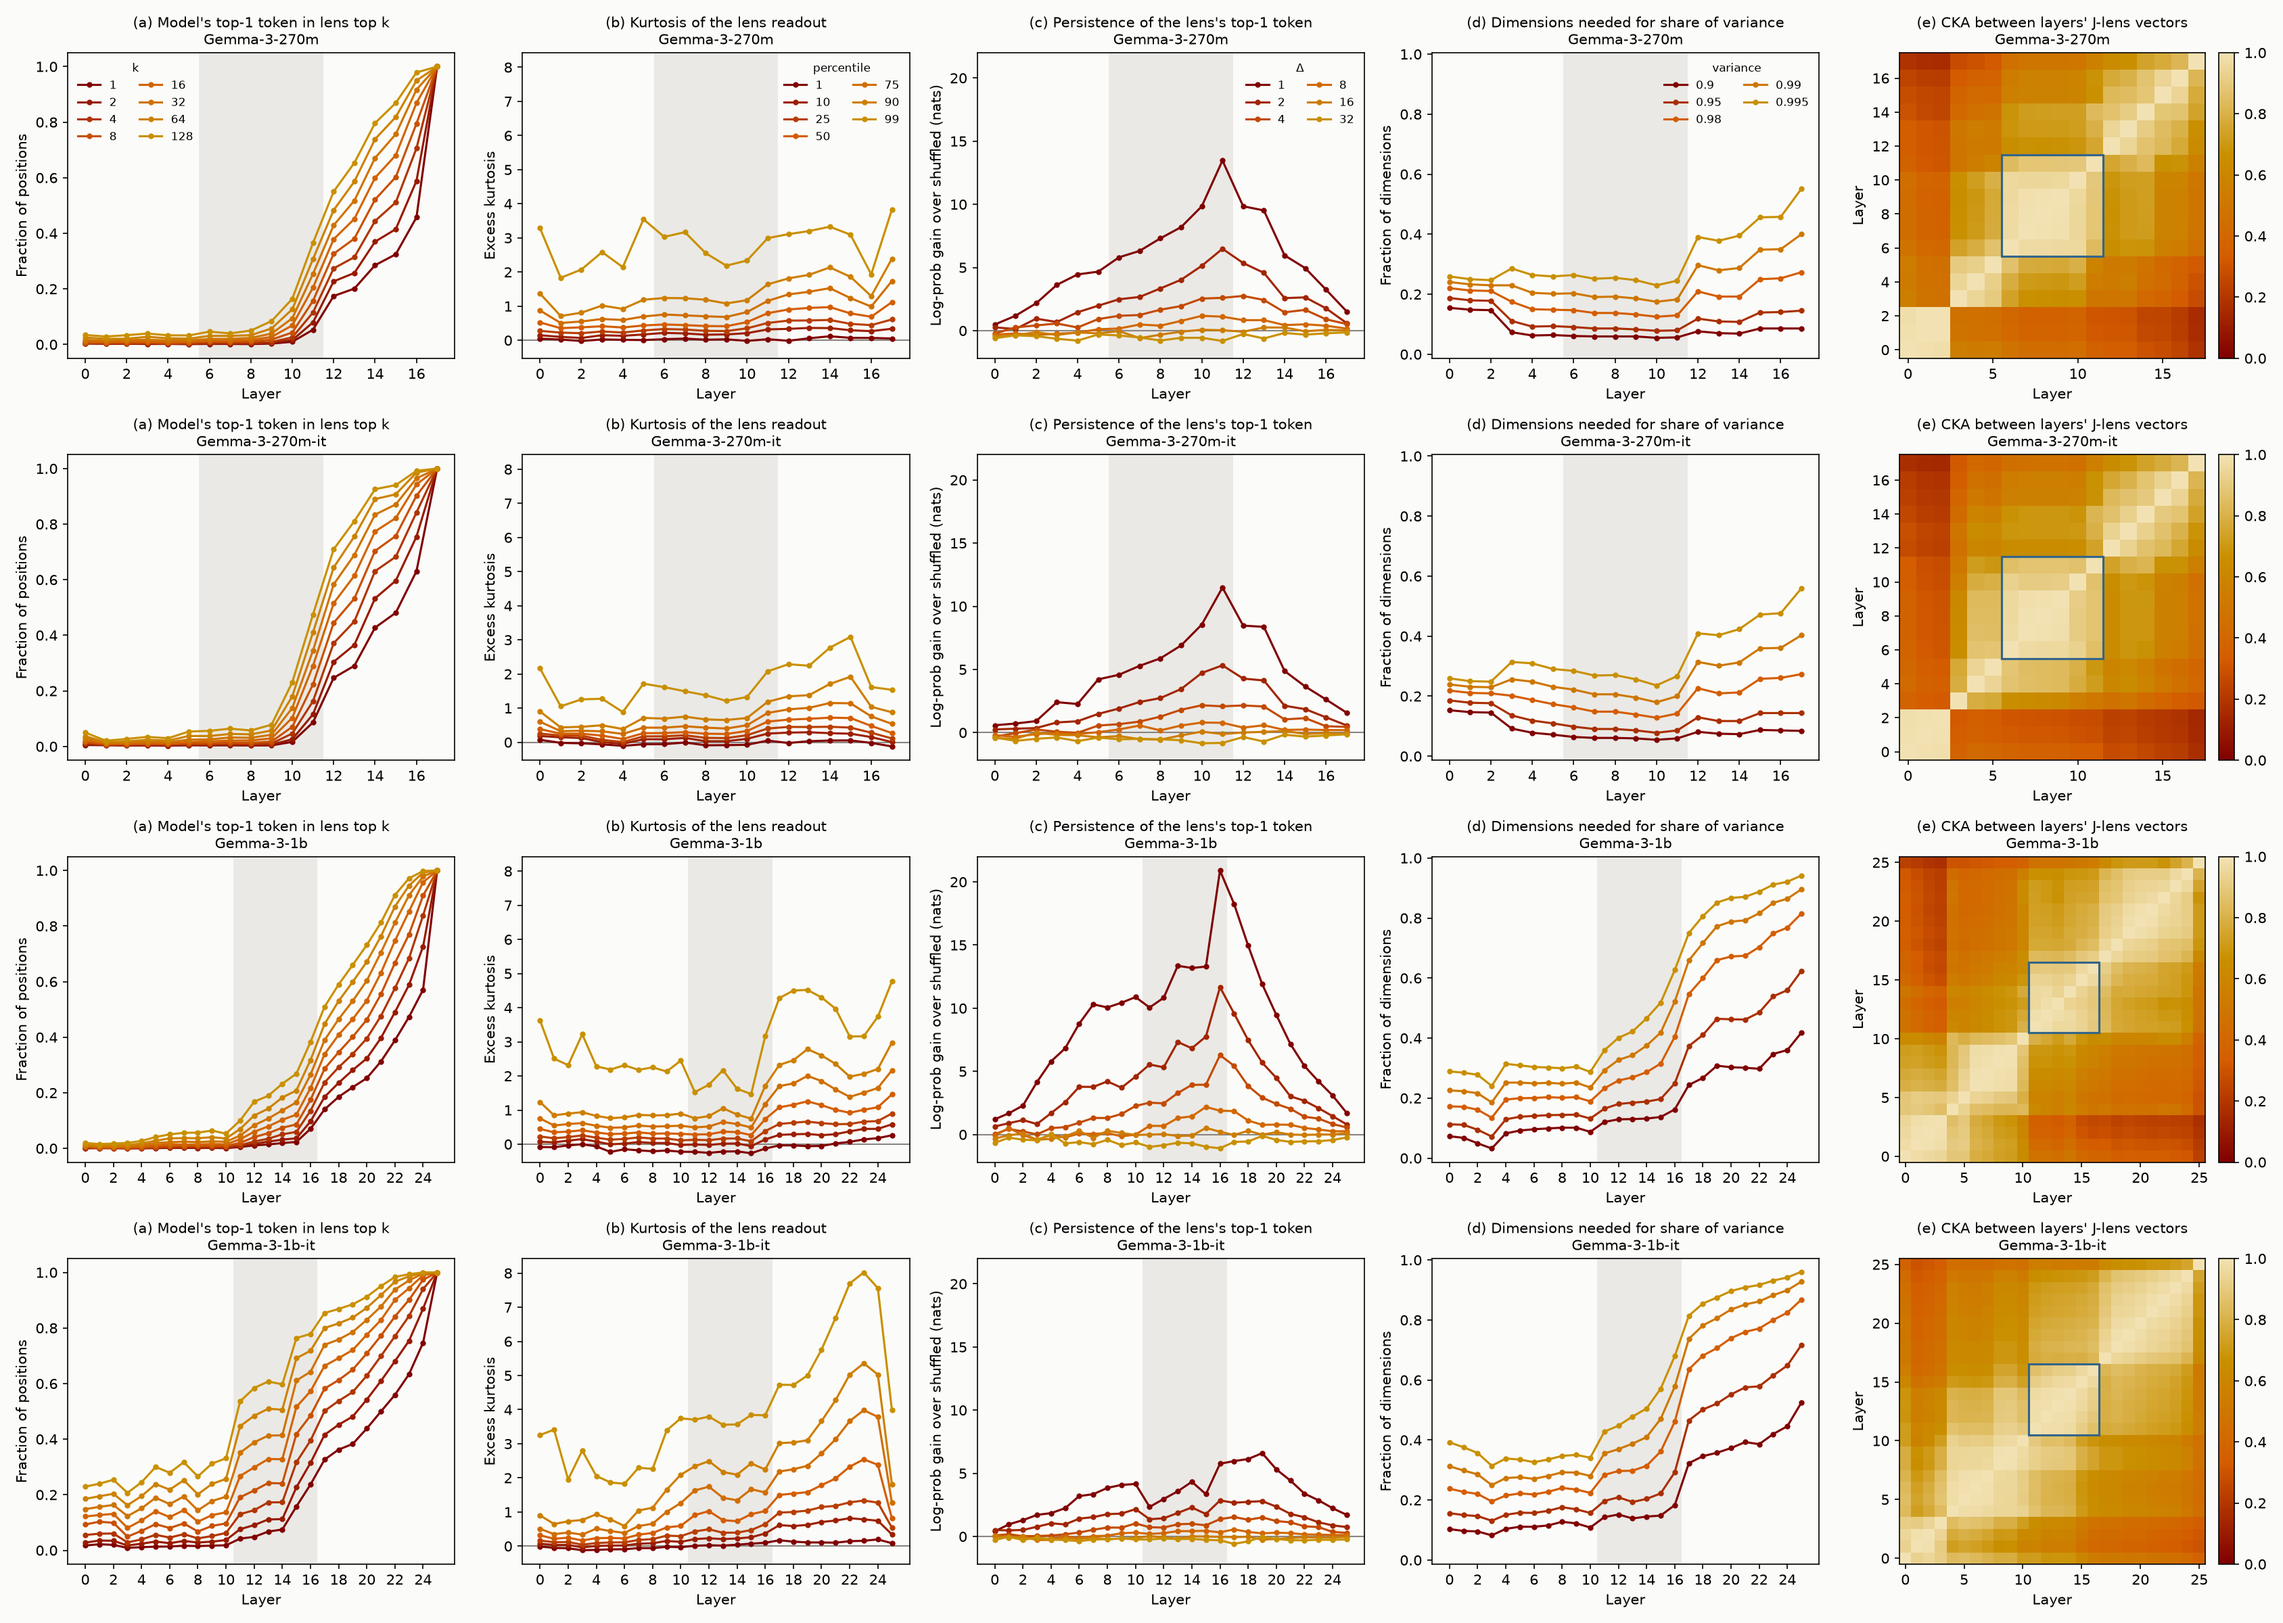
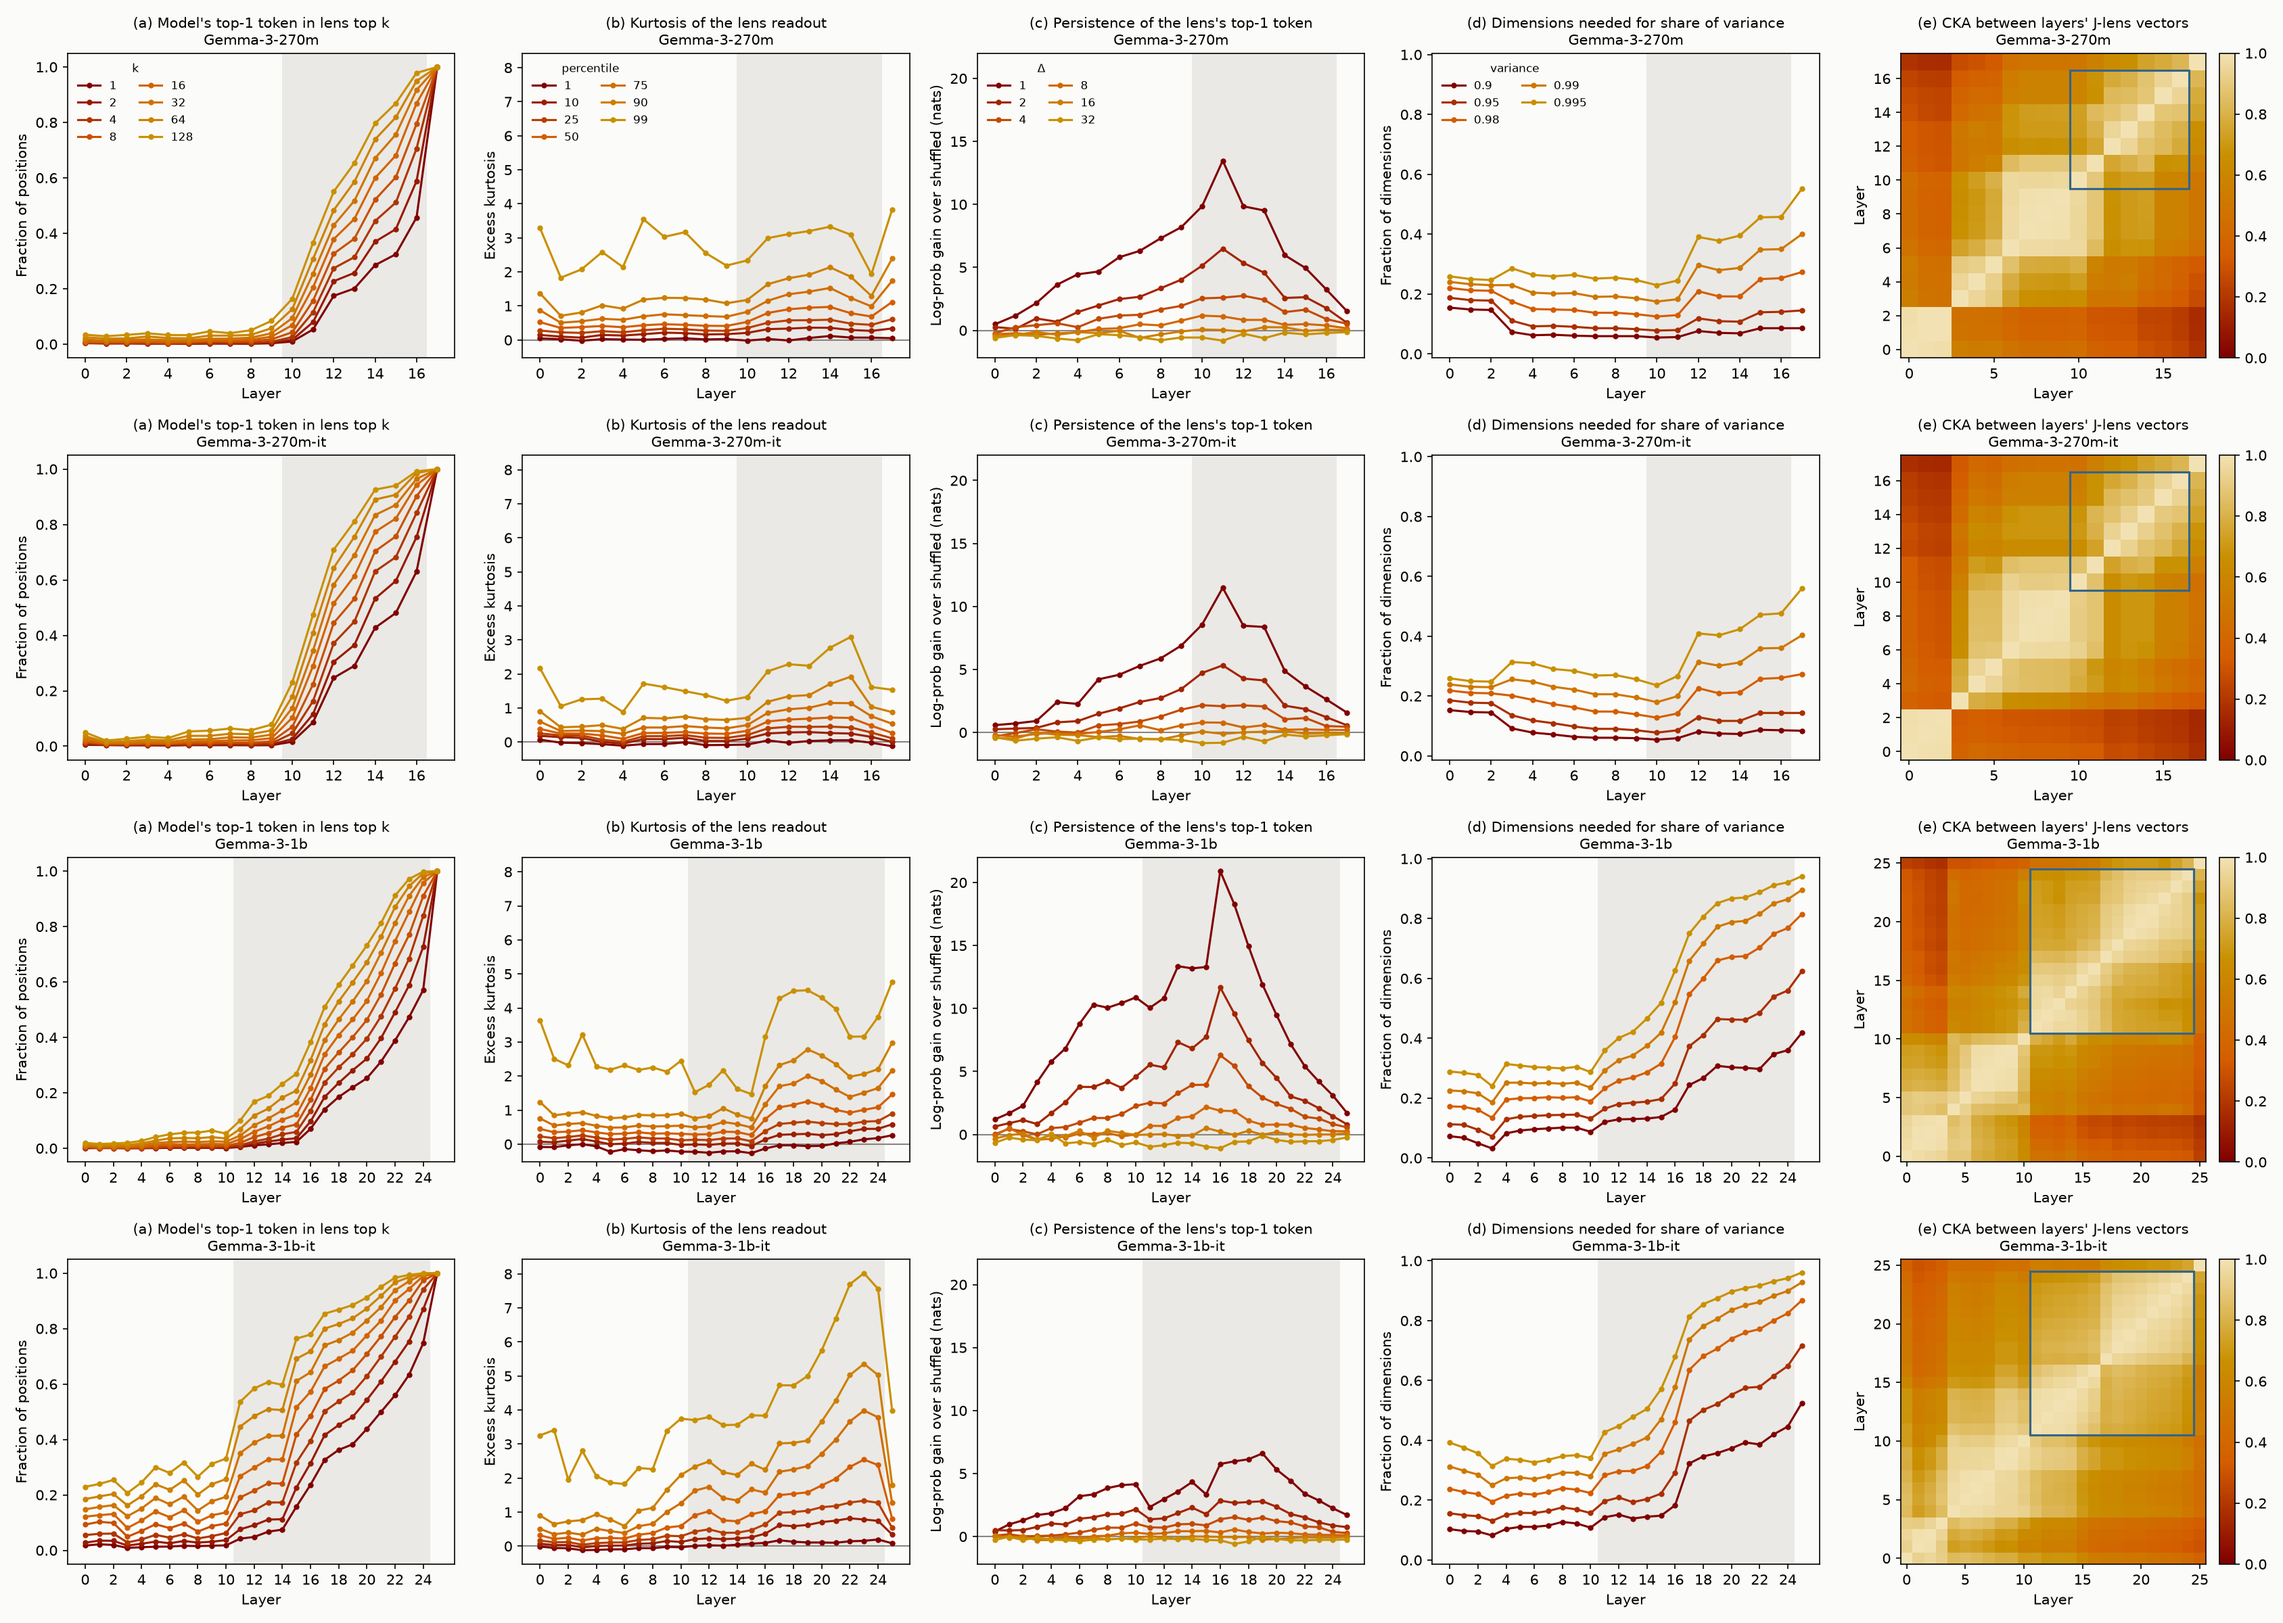
Gemma bands to the last lens layer (10-16 at 270m, 11-24 at 1b); score directed modulation over every band
Read the layer statistics as the paper's band sits on Claude's released Fig 28 curves: the band ends
where the lens's agreement with the model's output jumps, which in Gemma happens only at the output.
dm_gemma.py gains an every_band section (the highest rate any band gives, and the rates as the band's
end and start move), and Figure 9 (band_gemma.png) and dm_models.png are rebuilt with the new bands.

diff --git a/post/figures/dm_gemma.py b/post/figures/dm_gemma.py
@@ -106,6 +106,45 @@ def rate_row_excl(g, fam, best, k=1):
     return out
 
 
+def every_band(size, R):
+    """Categories, every band lo..hi of lens layers: the highest rate any band gives each condition (a
+    bound, since it picks the band per cell), and for the instruction-tuned model in its main frame, the
+    rates as the band's end moves with its start fixed (at every position and where the model isn't
+    about to say it) and as its start moves with its end fixed."""
+    def per_band(g):
+        """{(lo, hi): ([trial] best rank, [trial] best rank where not about to say it)}."""
+        n = len(g.layers) - 1
+        B = np.stack([g.best((L, L)) for L in range(n)], 1)
+        H = np.stack([g.best((L, L), held=10) for L in range(n)], 1)
+        return {(lo, hi): (B[:, lo:hi + 1].min(1), H[:, lo:hi + 1].min(1)) for lo in range(n) for hi in range(lo, n)}
+
+    print("\n### Categories: the highest hit rate any band gives, each condition separately\n")
+    print("| model, prompt | bands | " + " | ".join(D.COND_LABEL[c] for c in ALL) + " | largest think about − mention |\n|---|---|"
+          + "---|" * (len(ALL) + 1))
+    main_it = None
+    for label, g in R:
+        bands = per_band(g)
+        rates = {k: [mean_over_phrasings(g, "topic", c, b <= 1) for c in ALL] for k, (b, _) in bands.items()}
+        top = [max(r[i] for r in rates.values()) for i in range(len(ALL))]
+        gap = max(r[1] - r[2] for r in rates.values())
+        print(f"| {label} | {len(bands)} | " + " | ".join(pct(x) for x in top) + f" | {100 * gap:.1f} points |")
+        if g.model == f"gemma-{size}-it" and g.frame == D.MAIN_FRAME[g.model]:
+            main_it = (label, g, bands)
+    label, g, bands = main_it
+    lo, hi = D.BANDS[g.model]["ours"]
+    print(f"\n### Categories: {label}, as the band's end moves (first layer {lo})\n")
+    print("| band | " + " | ".join(D.COND_LABEL[c] for c in ALL) + " | think about / mention, where the model isn't about "
+          "to say it |\n|---|" + "---|" * (len(ALL) + 1))
+    for end in range(lo, len(g.layers) - 1):
+        b, h = bands[(lo, end)]
+        print(f"| {lo} to {end} | " + " | ".join(rate_row(g, "topic", b)) + f" | {pct(mean_over_phrasings(g, 'topic', 'focus', h <= 1))}"
+              f" / {pct(mean_over_phrasings(g, 'topic', 'mention', h <= 1))} |")
+    print(f"\n### Categories: {label}, as the band's start moves (last layer {hi})\n")
+    print("| band | " + " | ".join(D.COND_LABEL[c] for c in ALL) + " |\n|---|" + "---|" * len(ALL))
+    for start in range(hi + 1):
+        print(f"| {start} to {hi} | " + " | ".join(rate_row(g, "topic", bands[(start, hi)][0])) + " |")
+
+
 def main(size="270m"):
     R = runs(size)
     head = "| model, prompt | " + " | ".join(D.COND_LABEL[c] for c in ALL) + " |\n|---|" + "---|" * len(ALL)
@@ -162,6 +201,8 @@ def main(size="270m"):
             cells.append(f"{L}: " + "/".join(pct(mean_over_phrasings(g, "topic", c, b <= 1))
                                              for c in ("focus", "mention", "baseline")))
         print(f"- {label}: " + ", ".join(cells))
+
+    every_band(size, R)
 
     print("\n### Categories: hit rate by which positions count, our band\n")
     print("| model, prompt | positions | " + " | ".join(D.COND_LABEL[c] for c in ALL) + " |\n|---|---|" + "---|" * len(ALL))

diff --git a/post/figures/dm_data.py b/post/figures/dm_data.py
@@ -24,14 +24,18 @@ NO_RANK = 10 ** 6
 # paper's band, 38% to 92% of depth, in each model's layers (layer L of 0..N-1 is at 100 L / (N-1)).
 BANDS = {
     "gpt2": {"ours": (7, 9), "paper": (5, 10), "all": (0, 10)},
-    # Gemma 3: `ours` is the band each pair's layer statistics point to (post/figures/band_gemma.py):
-    # the middle block of the CKA between layer dictionaries, ending where persistence peaks and the
-    # dictionary's dimensionality jumps (the start of the motor layers).  The base and instruction-tuned
-    # model of each size have the same blocks, so they share a band.
-    "gemma-270m": {"ours": (6, 11), "paper": (7, 15), "all": (0, 16)},
-    "gemma-270m-it": {"ours": (6, 11), "paper": (7, 15), "all": (0, 16)},
-    "gemma-1b": {"ours": (11, 16), "paper": (10, 23), "all": (0, 24)},
-    "gemma-1b-it": {"ours": (11, 16), "paper": (10, 23), "all": (0, 24)},
+    # Gemma 3: `ours` is the band each pair's layer statistics point to (post/figures/band_gemma.py),
+    # read as the paper's band sits on Claude's own curves (its released Fig 28 data): Claude's band
+    # ends where the lens switches to the next token (top-1 agreement with the output jumps from 0.33 to
+    # 0.66 right after it), and its readout's kurtosis rises across the band.  In Gemma the agreement
+    # climbs with no jump before the output itself, so the band runs to the last lens layer, from where
+    # the agreement and the kurtosis start to rise.  The base and instruction-tuned model of each size
+    # share a band.  The middle CKA block (6-11, 11-16) is the main alternative; dm_gemma.py's `every_band`
+    # scores every band.
+    "gemma-270m": {"ours": (10, 16), "paper": (7, 15), "all": (0, 16)},
+    "gemma-270m-it": {"ours": (10, 16), "paper": (7, 15), "all": (0, 16)},
+    "gemma-1b": {"ours": (11, 24), "paper": (10, 23), "all": (0, 24)},
+    "gemma-1b-it": {"ours": (11, 24), "paper": (10, 23), "all": (0, 24)},
 }
 MODEL_LABEL = {"gpt2": "GPT-2 small", "gemma-270m": "Gemma-3-270m",
                "gemma-270m-it": "Gemma-3-270m-it", "gemma-1b": "Gemma-3-1b", "gemma-1b-it": "Gemma-3-1b-it"}

diff --git a/post/figures/band_gemma.py b/post/figures/band_gemma.py
@@ -1,7 +1,8 @@
 """How we chose each Gemma 3 model's band: the layer statistics of the post's Figure 8 (the paper's Fig 28)
 and the CKA between the layers' J-lens dictionaries (the paper's Fig 27), one row per model.  Shaded (and
-outlined on the CKA): the band, 6-11 at 270m and 11-16 at 1b, the middle CKA block, ending where
-persistence peaks and the dictionary's dimensionality jumps (dm_data.BANDS["ours"]).
+outlined on the CKA): the band, 10-16 at 270m and 11-24 at 1b (dm_data.BANDS["ours"]), from where the lens's
+agreement with the model's output (a) and the readout's kurtosis (b) start to rise to the last lens layer:
+in Claude the band ends where that agreement jumps, and in Gemma it doesn't jump before the output.
 
 The dictionary statistics, (d) and (e), use the J-lens vectors with the final norm's gain folded into the
 unembedding (the `_gain` keys of jl.band): without it, Gemma's dictionary is dominated by one direction
